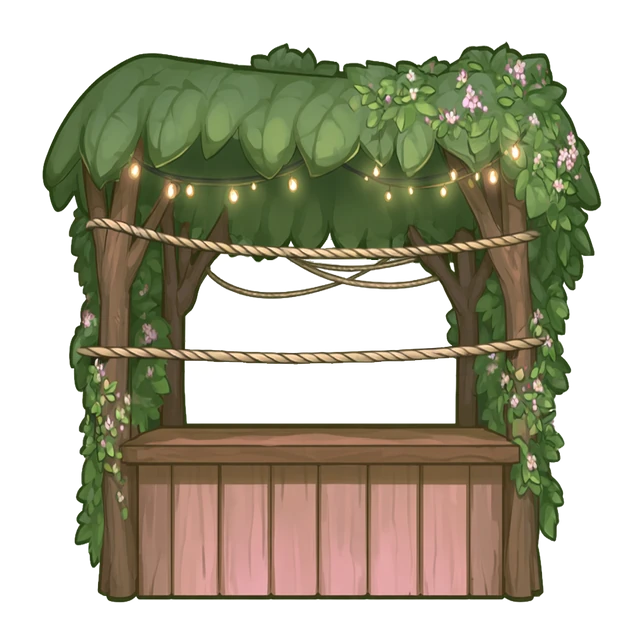
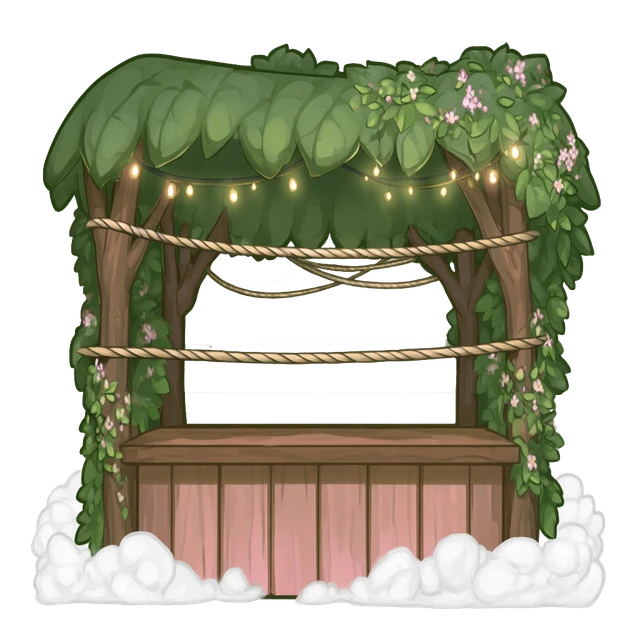
Sky background and cloud stall art for the stall page
Claude-Session: https://claude.ai/code/session_016SqVvPm9WRDkQpi5ByD9Hg

diff --git a/index.html b/index.html
@@ -4,7 +4,7 @@
 <meta charset="utf-8">
 <meta name="viewport" content="width=device-width, initial-scale=1, maximum-scale=1, user-scalable=no, viewport-fit=cover">
 <title>FaerieCharm</title>
-<link rel="stylesheet" href="css/style.css?v=13">
+<link rel="stylesheet" href="css/style.css?v=14">
 </head>
 <body>
 <div id="app">
@@ -27,7 +27,7 @@
     <img class="map-art" id="mapArt" alt="" draggable="false">
     <div id="levelSpots"></div>
     <button class="cloud-stall" data-go="stall" aria-label="Charm Stall">
-      <img src="art/stall-map.webp?v=13" alt="" draggable="false">
+      <img src="art/stall-map.webp?v=14" alt="" draggable="false">
     </button>
   </div>
   <header class="topbar">
@@ -257,10 +257,10 @@
 </div>
 
 <!-- config.js holds everything you'd want to tweak. ui.js = shared pieces, game.js = maze engine, app.js = screen flow. -->
-<script src="js/config.js?v=13"></script>
-<script src="js/ui.js?v=13"></script>
+<script src="js/config.js?v=14"></script>
+<script src="js/ui.js?v=14"></script>
 <script>$$('.friend-name').forEach(el => el.textContent = CONFIG.friendName);</script>
-<script src="js/game.js?v=13"></script>
-<script src="js/app.js?v=13"></script>
+<script src="js/game.js?v=14"></script>
+<script src="js/app.js?v=14"></script>
 </body>
 </html>

diff --git a/css/style.css b/css/style.css
@@ -231,6 +231,8 @@ h1,h2{margin:0;text-wrap:balance}
 .stats{display:flex;justify-content:center;flex-wrap:wrap;gap:6px 14px;font-size:13px;color:var(--muted);font-variant-numeric:tabular-nums}
 
 /* ---------- stall ---------- */
+#scr-stall{background:#8d95cf url('../art/stall-bg.webp') center bottom / cover no-repeat}
+#scr-stall .titlebar h2{color:#fff;text-shadow:0 2px 6px rgba(30,40,70,.6)}
 .tabs{display:grid;grid-template-columns:repeat(2,minmax(0,1fr));gap:8px}
 .tabs button{height:44px;border-radius:22px;border:2px solid var(--ink);background:#fff;font-size:15px;font-weight:700;display:flex;align-items:center;justify-content:center;gap:6px}
 .tabs button svg{fill:var(--ink)}

diff --git a/README.md b/README.md
@@ -39,7 +39,7 @@ Most tweaks only need `js/config.js`. For example, change a charm's price or Bra
 
 ## Art
 
-Art lives in `art/`: the forest map (`map.webp`), the maze floor (`dirt.webp`), the maze walls (`vines.webp`), the load screen (`load.webp`), the Thorn Maze start screen (`entry-thorn.webp`, set per level with `entryArt` in `js/config.js`), Bramble (`bramble.webp`, animated), and the stall (`stall.webp`).
+Art lives in `art/`: the forest map (`map.webp`), the maze floor (`dirt.webp`), the maze walls (`vines.webp`), the load screen (`load.webp`), the Thorn Maze start screen (`entry-thorn.webp`, set per level with `entryArt` in `js/config.js`), Bramble (`bramble.webp`, animated), the stall (`stall.webp`) and its sky background (`stall-bg.webp`), and the map's Charms stall (`stall-map.webp`).
 
 **Swapping Bramble or the stall:** save a new transparent image over the file with the same name and the same rough shape (Bramble is portrait, the stall is square). Bramble can be a still image or animated. To turn an animated GIF into WebP, use ezgif.com (GIF to WebP); it's usually a third of the size. The stall's charms hang on its two ropes; if a new stall puts the ropes somewhere else, update `STALL_SPOTS` in `js/app.js` (positions are % of the stall image).
 
